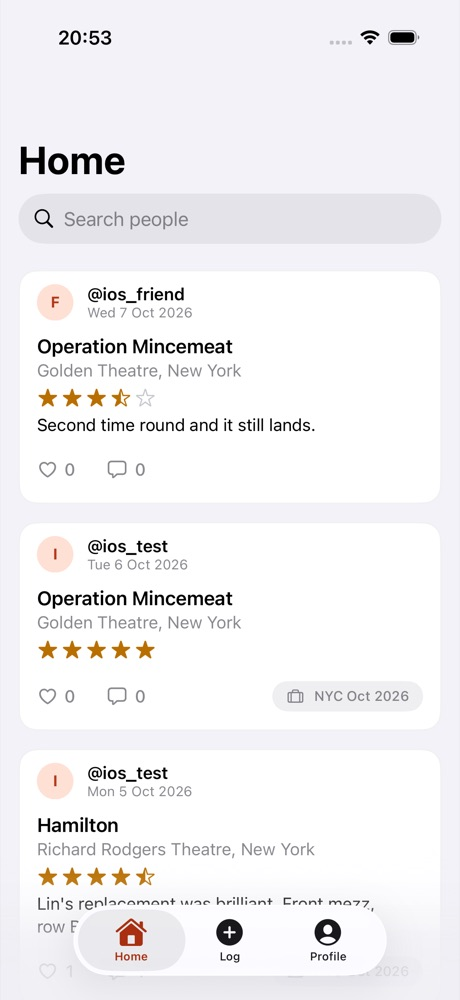
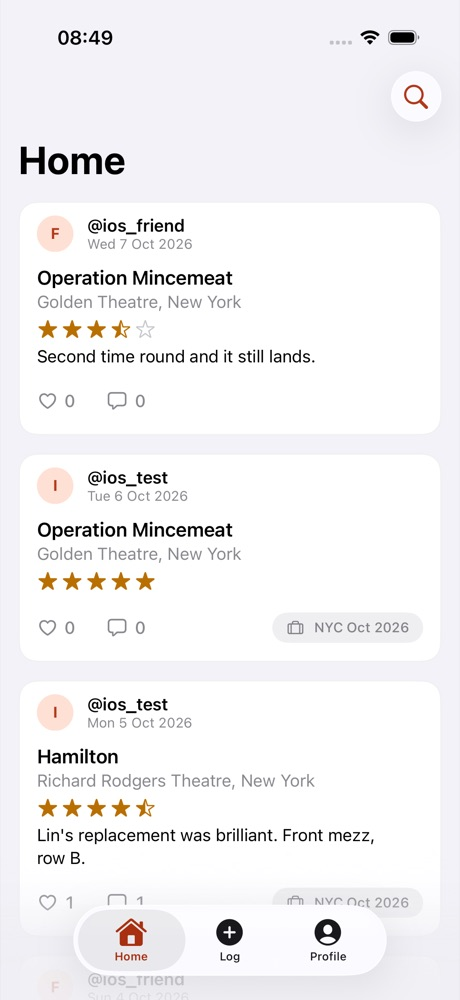
iOS: people search behind a button; comments as a pull-up drawer
Home's always-visible search bar becomes a search button in the bar, as
on Instagram and Hevy. It opens a Search people sheet with the field
focused; choosing a person closes it and opens their profile on Home
(PersonRow takes an onOpen for that, so it isn't a NavigationLink).

Comments on a feed post open as a drawer over the feed (CommentsSheet:
medium and large detents, drag indicator, plain list, "No comments yet"
empty state, composer pinned to the bottom with "Add a comment for
@handle"). A show's own page keeps its inline thread.

UI tests: Home opens the drawer and posts a comment; People searches from
the button. onHome now also dismisses a Save Password prompt that arrives
late, which covered the feed in one run. The design system page's iOS
section, screenshots and the decision log follow.

diff --git a/apps/web/src/lib/design-system.ts b/apps/web/src/lib/design-system.ts
@@ -145,8 +145,8 @@ export const IOS_RULES = [
   "**One custom container:** the feed post (`PostCard`), photo first like Instagram or Hevy: header, the photo at the card's full width (4:5), the show, stars and note, then counts and a trip tag on one row. The whole card is one tap target that scales to 98% when pressed.",
   "**Surfaces.** `Color(.secondarySystemGroupedBackground)` with 16pt continuous corners and a 1pt stroke at 6% of the label colour (`.groupedCard()`). No drop shadows anywhere.",
   "**Type and colour.** Dynamic Type text styles only; system semantic colours for text and backgrounds; coral only on interactive elements. Text on coral is `onTint` (dark), never white.",
-  "**Controls.** System button styles: one `.borderedProminent` per screen, otherwise `.bordered` or plain tinted text. Toggles, pickers, date pickers, `.searchable` (people search sits under Home's title, like Spotlight), `ShareLink`, `PhotosPicker`.",
-  "**Presentations.** Sheets for self-contained tasks, each with its own `NavigationStack` and Cancel / Save (or Done) in the bar: log a show, edit a trip, Share. Destructive steps confirm with a `.confirmationDialog`.",
+  "**Controls.** System button styles: one `.borderedProminent` per screen, otherwise `.bordered` or plain tinted text. Toggles, pickers, date pickers, `.searchable` (people search opens from Home's search button as a sheet, the field focused), `ShareLink`, `PhotosPicker`.",
+  "**Presentations.** Sheets for self-contained tasks, each with its own `NavigationStack` and Cancel / Save (or Done) in the bar: log a show, edit a trip, Share. Comments on a feed post open as a pull-up drawer (`.presentationDetents([.medium, .large])`), as on Instagram. Destructive steps confirm with a `.confirmationDialog`.",
   "**Loading.** Grey placeholder rows in the shape of the content (`.redacted`), never a spinner over the screen. Likes update at once and sync in the background.",
   "**Light only for now:** `.preferredColorScheme(.light)` at the root. Semantic colours keep dark mode a one-line change.",
 ];
@@ -178,7 +178,7 @@ export const IOS_COMPONENTS = [
   { name: "RatingStars / RatingInput", file: "Design/Components.swift, Screens/Log/RatingInput.swift", notes: "Five SF Symbol stars in half steps, scaled with Dynamic Type. The input drags or taps, with a haptic, and is an adjustable control for VoiceOver." },
   { name: "PersonRow / FollowButton", file: "Screens/People/", notes: "A person as a List row (avatar, @handle, name) with Follow (`.borderedProminent`), or Following / Requested (`.bordered`)." },
   { name: "ShareScreen / ShareCarousel / ShareRow", file: "Screens/Share/ShareCarousel.swift", notes: "The Share sheet: the card at full width with 16pt margins, swipe between designs, then Stories, More, Download, Copy text and Link. A row with a thumbnail opens it from a detail screen." },
-  { name: "CommentComposer", file: "Screens/People/PublicEntryView.swift", notes: "A growing field with an inline send arrow, pinned above the tab bar with `.safeAreaInset(edge: .bottom)`." },
+  { name: "CommentsSheet / CommentComposer", file: "Screens/People/PublicEntryView.swift", notes: "Comments as a pull-up drawer from a feed post: half height, drag to full, swipe down to close. The composer is a growing field with an inline send arrow, pinned to the bottom with `.safeAreaInset(edge: .bottom)`." },
   { name: "PlaceholderRows / EmptyState", file: "Design/Components.swift", notes: "Redacted grey rows for a first load; `ContentUnavailableView` with an SF Symbol for empty and error states." },
   { name: "RemoteImage", file: "Design/Components.swift", notes: "Photos from a URL on a grey placeholder of the final size. Caches and retries, where `AsyncImage` gives up in a scrolling feed." },
   { name: "Wordmark", file: "Design/Components.swift", notes: "Lowercase `stubbed`, heavy, tight tracking, in `label`; VoiceOver reads \"Stubbed\"." },
@@ -186,9 +186,10 @@ export const IOS_COMPONENTS = [
 
 /** Screenshots of the iOS app (iPhone 17 Pro simulator, test data), in public/design-system/ios. */
 export const IOS_SCREENSHOTS = [
-  { file: "home.jpg", title: "Home", caption: "Large title, people search under it, feed posts on the grouped background.", width: 460, height: 1000 },
+  { file: "home.jpg", title: "Home", caption: "Large title, the search button in the bar, feed posts on the grouped background.", width: 460, height: 1000 },
   { file: "post-photo.jpg", title: "Feed post with a photo", caption: "Photo first at the card's full width; counts and a trip tag on one row.", width: 735, height: 1000 },
-  { file: "people-search.jpg", title: "People search", caption: "While searching, matching people with Follow replace the feed.", width: 964, height: 1000 },
+  { file: "people-search.jpg", title: "People search", caption: "A sheet from Home's search button: the field focused, people with Follow as you type.", width: 964, height: 1000 },
+  { file: "comments-drawer.jpg", title: "Comments drawer", caption: "A post's comments as a pull-up drawer over the feed, the composer pinned to the bottom.", width: 460, height: 1000 },
   { file: "profile.jpg", title: "Profile", caption: "An inset grouped List: header, counts as rows, follow requests, Diary and Trips.", width: 460, height: 1000 },
   { file: "diary.jpg", title: "Diary rows", caption: "EntryRow in Upcoming and Seen sections; swipe or long press to edit or delete.", width: 460, height: 1000 },
   { file: "entry.jpg", title: "A show", caption: "A Form: the show first, then Share, then likes, trips and privacy, then Delete.", width: 460, height: 1000 },

diff --git a/apps/ios/Stubbed/Screens/Home/HomeView.swift b/apps/ios/Stubbed/Screens/Home/HomeView.swift
@@ -1,16 +1,15 @@
 import SwiftUI
 
 /// Home: the feed. Your shows and the shows of people you follow, newest
-/// first, a page at a time, under a search field for finding people (like
-/// Spotlight: type and matches replace the feed). Your diary lives on the
-/// Profile tab.
+/// first, a page at a time. The search button in the bar finds people to
+/// follow. Your diary lives on the Profile tab.
 struct HomeView: View {
   @Environment(AppSession.self) private var session
   @Environment(AppRouter.self) private var router
 
   @State private var items: [FeedItem] = []
   @State private var next: Feed.Cursor?
-  @State private var query = ""
+  @State private var searching = false
   @State private var state = LoadState.loading
   @State private var loadingMore = false
   @State private var moreFailed = false
@@ -18,11 +17,14 @@ struct HomeView: View {
   enum LoadState { case loading, loaded, failed }
 
   var body: some View {
-    SearchSwitch(query: query) { content }
-      .searchable(text: $query, placement: .navigationBarDrawer(displayMode: .always), prompt: "Search people")
-      .textInputAutocapitalization(.never)
-      .autocorrectionDisabled()
+    content
       .navigationTitle("Home")
+      .toolbar {
+        ToolbarItem(placement: .topBarTrailing) {
+          Button("Search people", systemImage: "magnifyingglass") { searching = true }
+        }
+      }
+      .sheet(isPresented: $searching) { PeopleSearchSheet() }
       // Logging a show starts the feed over from the top.
       .task(id: router.dataVersion) { await load() }
   }
@@ -74,7 +76,7 @@ struct HomeView: View {
         ContentUnavailableView {
           Label("Nothing here yet", systemImage: "theatermasks")
         } description: {
-          Text("Shows you track appear here, along with shows from people you follow. Find them with the search above.")
+          Text("Shows you track appear here, along with shows from people you follow. Find them with the search button.")
         } actions: {
           Button("Track a show") { router.startLog() }
             .buttonStyle(.borderedProminent)
@@ -138,16 +140,31 @@ struct HomeView: View {
   }
 }
 
-/// The feed, or people matching the search while the search field is in
-/// use, as Spotlight swaps in its results.
-private struct SearchSwitch<Feed: View>: View {
-  let query: String
-  @ViewBuilder var feed: Feed
-
-  @Environment(\.isSearching) private var isSearching
+/// Search people, opened from Home's search button: a sheet with the field
+/// focused and the keyboard up, results with Follow as you type, and Done in
+/// the bar. Opening a profile closes the sheet and shows it on Home.
+private struct PeopleSearchSheet: View {
+  @Environment(\.dismiss) private var dismiss
+  @Environment(AppRouter.self) private var router
+  @State private var query = ""
+  @State private var active = true
 
   var body: some View {
-    if isSearching { PeopleResults(query: query) } else { feed }
+    NavigationStack {
+      PeopleResults(query: query) { person in
+        dismiss()
+        router.open(.profile(handle: person.handle))
+      }
+        .navigationTitle("Search people")
+        .navigationBarTitleDisplayMode(.inline)
+        .searchable(
+          text: $query, isPresented: $active, placement: .navigationBarDrawer(displayMode: .always),
+          prompt: "Name or @handle")
+        .textInputAutocapitalization(.never)
+        .autocorrectionDisabled()
+        .toolbar {
+          ToolbarItem(placement: .confirmationAction) { Button("Done") { dismiss() } }
+        }
+    }
   }
 }
-

diff --git a/apps/ios/Stubbed/Screens/People/PublicEntryView.swift b/apps/ios/Stubbed/Screens/People/PublicEntryView.swift
@@ -81,6 +81,9 @@ struct PublicEntryView: View {
 struct CommentThread: View {
   let entryId: UUID
   let ownerId: UUID
+  /// In the Comments drawer: no section header (the sheet's title says it)
+  /// and a centred empty state.
+  var inDrawer = false
 
   @Environment(AppSession.self) private var session
   @Environment(AppRouter.self) private var router
@@ -94,13 +97,19 @@ struct CommentThread: View {
     Section {
       if !likers.isEmpty { likedBy }
       if comments.isEmpty {
-        Text("No comments yet. Say something nice.")
-          .font(.subheadline)
-          .foregroundStyle(.secondary)
+        if inDrawer {
+          ContentUnavailableView("No comments yet", systemImage: "bubble.left", description: Text("Start the conversation."))
+            .listRowBackground(Color.clear)
+            .listRowSeparator(.hidden)
+        } else {
+          Text("No comments yet. Say something nice.")
+            .font(.subheadline)
+            .foregroundStyle(.secondary)
+        }
       }
       ForEach(comments) { comment in row(comment) }
     } header: {
-      Text(comments.isEmpty ? "Comments" : "Comments · \(comments.count)")
+      if !inDrawer { Text(comments.isEmpty ? "Comments" : "Comments · \(comments.count)") }
     } footer: {
       if let error { Text(error).foregroundStyle(.red) }
     }
@@ -190,6 +199,7 @@ struct CommentThread: View {
 /// arrow inline on its right.
 struct CommentComposer: View {
   let entryId: UUID
+  var prompt = "Add a comment…"
 
   @Environment(AppSession.self) private var session
   @Environment(AppRouter.self) private var router
@@ -208,7 +218,7 @@ struct CommentComposer: View {
         Text("\(draft.count)/\(ReactionsAPI.commentMax)").font(.footnote).foregroundStyle(.secondary)
       }
       HStack(alignment: .bottom, spacing: Space.s) {
-        TextField("Comment", text: $draft, prompt: Text("Add a comment…"), axis: .vertical)
+        TextField("Comment", text: $draft, prompt: Text(prompt), axis: .vertical)
           .lineLimit(1...5)
           .focused($typing)
           .onChange(of: draft) { _, value in
@@ -253,3 +263,30 @@ struct CommentComposer: View {
     }
   }
 }
+
+/// A show's comments as a pull-up drawer, as on Instagram: opened from a feed
+/// post's comment button over the feed, at half height and dragged to full,
+/// with the comment box pinned to the bottom. Swipe down to close.
+struct CommentsSheet: View {
+  let entryId: UUID
+  let ownerId: UUID
+  let ownerHandle: String
+
+  var body: some View {
+    NavigationStack {
+      List {
+        CommentThread(entryId: entryId, ownerId: ownerId, inDrawer: true)
+      }
+      .listStyle(.plain)
+      .navigationTitle("Comments")
+      .navigationBarTitleDisplayMode(.inline)
+      .safeAreaInset(edge: .bottom) {
+        CommentComposer(entryId: entryId, prompt: "Add a comment for @\(ownerHandle)")
+      }
+    }
+    .presentationDetents([.medium, .large])
+    .presentationDragIndicator(.visible)
+    .presentationContentInteraction(.scrolls)
+  }
+}
+

diff --git a/apps/ios/Stubbed/Screens/People/PeopleView.swift b/apps/ios/Stubbed/Screens/People/PeopleView.swift
@@ -5,6 +5,8 @@ import SwiftUI
 /// shows then appear in your feed.
 struct PeopleResults: View {
   let query: String
+  /// Set when the results are in a sheet: opening a profile closes it.
+  var onOpen: ((Person) -> Void)?
 
   @Environment(AppSession.self) private var session
   @State private var results: [Person] = []
@@ -25,7 +27,7 @@ struct PeopleResults: View {
       } else {
         Section {
           ForEach(results) { person in
-            PersonRow(person: person) {
+            PersonRow(person: person, onOpen: onOpen) {
               if person.id != session.userId {
                 FollowButton(person: person, viewer: viewers[person.id] ?? Viewer(isOwner: false, status: .none))
               }
@@ -63,10 +65,20 @@ struct PeopleResults: View {
 /// Approve…) that takes its own taps.
 struct PersonRow<Trailing: View>: View {
   let person: Person
+  /// Opens the profile some other way (from a sheet) instead of pushing.
+  var onOpen: ((Person) -> Void)?
   @ViewBuilder var trailing: Trailing
 
   var body: some View {
-    NavigationLink(value: AppRouter.Route.profile(handle: person.handle)) {
+    if let onOpen {
+      Button { onOpen(person) } label: { label }
+        .foregroundStyle(.primary)
+    } else {
+      NavigationLink(value: AppRouter.Route.profile(handle: person.handle)) { label }
+    }
+  }
+
+  private var label: some View {
       HStack(spacing: Space.m) {
         Avatar(name: person.name, url: person.avatarURL, size: 40)
         VStack(alignment: .leading, spacing: 0) {
@@ -80,6 +92,5 @@ struct PersonRow<Trailing: View>: View {
         Spacer(minLength: 0)
         trailing
       }
-    }
   }
 }

diff --git a/apps/ios/StubbedUITests/HomeUITests.swift b/apps/ios/StubbedUITests/HomeUITests.swift
@@ -14,7 +14,7 @@ final class HomeUITests: XCTestCase {
 
     let friend = app.buttons.matching(NSPredicate(format: "label BEGINSWITH %@", "@ios_friend")).firstMatch
     XCTAssertTrue(friend.waitForExistence(timeout: 15))
-    XCTAssertTrue(app.searchFields["Search people"].exists, "People search sits at the top of Home")
+    XCTAssertTrue(app.buttons["Search people"].exists, "People search is a button in Home's bar")
     snapshot("home")
 
     // Like the newest public show, then unlike it.
@@ -26,6 +26,20 @@ final class HomeUITests: XCTestCase {
     snapshot("home-liked")
     like.coordinate(withNormalizedOffset: CGVector(dx: 0.5, dy: 0.5)).tap()
     XCTAssertFalse(like.isSelected)
+
+    // Comments open as a drawer over the feed.
+    app.buttons["Comment"].firstMatch.tap()
+    XCTAssertTrue(app.navigationBars["Comments"].waitForExistence(timeout: 10))
+    XCTAssertTrue(app.staticTexts["No comments yet"].waitForExistence(timeout: 10))
+    snapshot("comments-drawer")
+    let field = app.descendants(matching: .any).matching(NSPredicate(format: "placeholderValue BEGINSWITH %@", "Add a comment for")).firstMatch
+    tap(field)
+    field.typeText("Front row was worth it.")
+    app.buttons["Post"].tap()
+    XCTAssertTrue(app.staticTexts["Front row was worth it."].waitForExistence(timeout: 10))
+    snapshot("comments-drawer-posted")
+    app.swipeDown(velocity: .fast)
+    XCTAssertTrue(app.navigationBars["Home"].waitForExistence(timeout: 5))
 
     // The 27th show is only on the second page.
     var swipes = 0

diff --git a/apps/ios/Stubbed/Screens/Home/PostCard.swift b/apps/ios/Stubbed/Screens/Home/PostCard.swift
@@ -25,6 +25,7 @@ struct PostCard: View {
   @State private var shown: Reactions?
   @State private var writing = false
   @State private var likeError: String?
+  @State private var showingComments = false
 
   private var route: AppRouter.Route { mine ? .entry(entry.id) : .publicEntry(entry.id) }
   private var date: String { Day.formatPost(entry.date) }
@@ -41,6 +42,9 @@ struct PostCard: View {
       }
     }
     .onChange(of: reactions) { _, _ in shown = nil }
+    .sheet(isPresented: $showingComments) {
+      CommentsSheet(entryId: entry.id, ownerId: owner.id, ownerHandle: owner.handle)
+    }
   }
 
   /// Photo first, as on Instagram and Hevy: the header, the photo across
@@ -181,7 +185,8 @@ struct PostCard: View {
       .accessibilityValue("\(state.likes) \(state.likes == 1 ? "like" : "likes")")
       .accessibilityAddTraits(state.liked ? .isSelected : [])
 
-      Button { router.open(.publicEntry(entry.id, comments: true)) } label: {
+      // The comments open as a drawer over the card, as on Instagram.
+      Button { showingComments = true } label: {
         metric(state.comments, systemImage: "bubble.left", tint: nil)
       }
       .buttonStyle(.plain)

diff --git a/apps/ios/StubbedUITests/UITestSupport.swift b/apps/ios/StubbedUITests/UITestSupport.swift
@@ -46,9 +46,9 @@ extension XCTestCase {
   /// iOS offers to save the password after a sign-in, sometimes a few
   /// seconds later; say "Not Now".
   @MainActor
-  func dismissSavePassword(_ app: XCUIApplication) {
+  func dismissSavePassword(_ app: XCUIApplication, within seconds: TimeInterval = 8) {
     let springboard = XCUIApplication(bundleIdentifier: "com.apple.springboard")
-    let deadline = Date().addingTimeInterval(8)
+    let deadline = Date().addingTimeInterval(seconds)
     var tapped = false
     while Date() < deadline {
       let shown = [app, springboard].map { $0.buttons["Not Now"] }.first { $0.exists }
@@ -116,6 +116,9 @@ extension XCTestCase {
   func onHome(_ app: XCUIApplication, timeout: TimeInterval = 15) -> Bool {
     let shown = app.navigationBars["Home"].waitForExistence(timeout: timeout)
     if !shown { snapshot("not-home") }
+    // The Save Password prompt sometimes arrives after sign-in's own check,
+    // over the feed. Catch a late one before the test starts tapping.
+    if shown { dismissSavePassword(app, within: 3) }
     return shown
   }
 

diff --git a/apps/ios/StubbedUITests/PeopleUITests.swift b/apps/ios/StubbedUITests/PeopleUITests.swift
@@ -17,8 +17,9 @@ final class PeopleUITests: XCTestCase {
   @MainActor
   func testFindPeopleOpenProfileAndEntry() throws {
     let app = try home()
-    // People search is the field at the top of Home.
-    let search = app.searchFields["Search people"]
+    // Home's search button opens Search people with the field focused.
+    app.buttons["Search people"].tap()
+    let search = app.searchFields["Name or @handle"]
     XCTAssertTrue(search.waitForExistence(timeout: 10))
     search.tap()
     search.typeText("ios_fr")

diff --git a/docs/DECISIONS.md b/docs/DECISIONS.md
@@ -341,8 +341,8 @@ Owner's ask: a page to share the design system with other AI tools. `/design-sys
 ### 2026-10-21: Light by default is a design system rule
 Owner's call, after `/design-system` showed dark on a dark-mode device. Light is the default everywhere: every web page sets `data-theme="light"` on its root and iOS sets `.preferredColorScheme(.light)`. Replaces the "follows the system appearance" principle in `docs/DESIGN.md` and on the design system page. Dark tokens stay defined and working, and the page still shows them, for when dark mode comes back.
 
-### 2026-10-21: iOS people search lives in Home's search field
-Owner's ask: the "Follow people you go to the theatre with" banner took too much room. Home now has a search field under its title (`.searchable`, always shown), like Spotlight: while it's in use, matching people with Follow replace the feed; cancel and the feed is back. The banner, the person-plus toolbar button and the separate Find people screen are gone. Matches the web, where people search moved into the header (2026-10-18).
+### 2026-10-22: iOS people search is a button; comments are a drawer
+Owner's asks. The "Follow people you go to the theatre with" banner on Home took too much room, and an always-visible search bar under the title still did. Home now has just a search button in its bar, as on Instagram and Hevy: it opens a **Search people** sheet with the field focused, results with Follow as you type, and choosing a person closes the sheet and opens their profile on Home. The banner, the Find people screen and its route are gone. **Comments on a feed post open as a pull-up drawer** over the feed, as on Instagram: half height, drag to full, swipe down to close, "No comments yet · Start the conversation." when empty, and the box ("Add a comment for @handle") pinned to the bottom. A show's own page keeps its comments inline.
 
 ### 2026-10-22: The design system page covers iOS
 The `/design-system` page (and its markdown) gains a full iOS section: the native rules, how each colour token is expressed in SwiftUI (system colours for backgrounds and text, `Palette` for the coral ones), the SwiftUI components with their files, and screenshots of the app's main screens from the simulator. The components table's SwiftUI column now names the real types (system button styles, `RatingStars`, `Poster`, `EntryRow`, `PostCard`, `Wordmark`) instead of planned `FL…` ones that were never built, and the iOS tab icons are the real ones. A test checks every token is mapped and every screenshot file exists.
